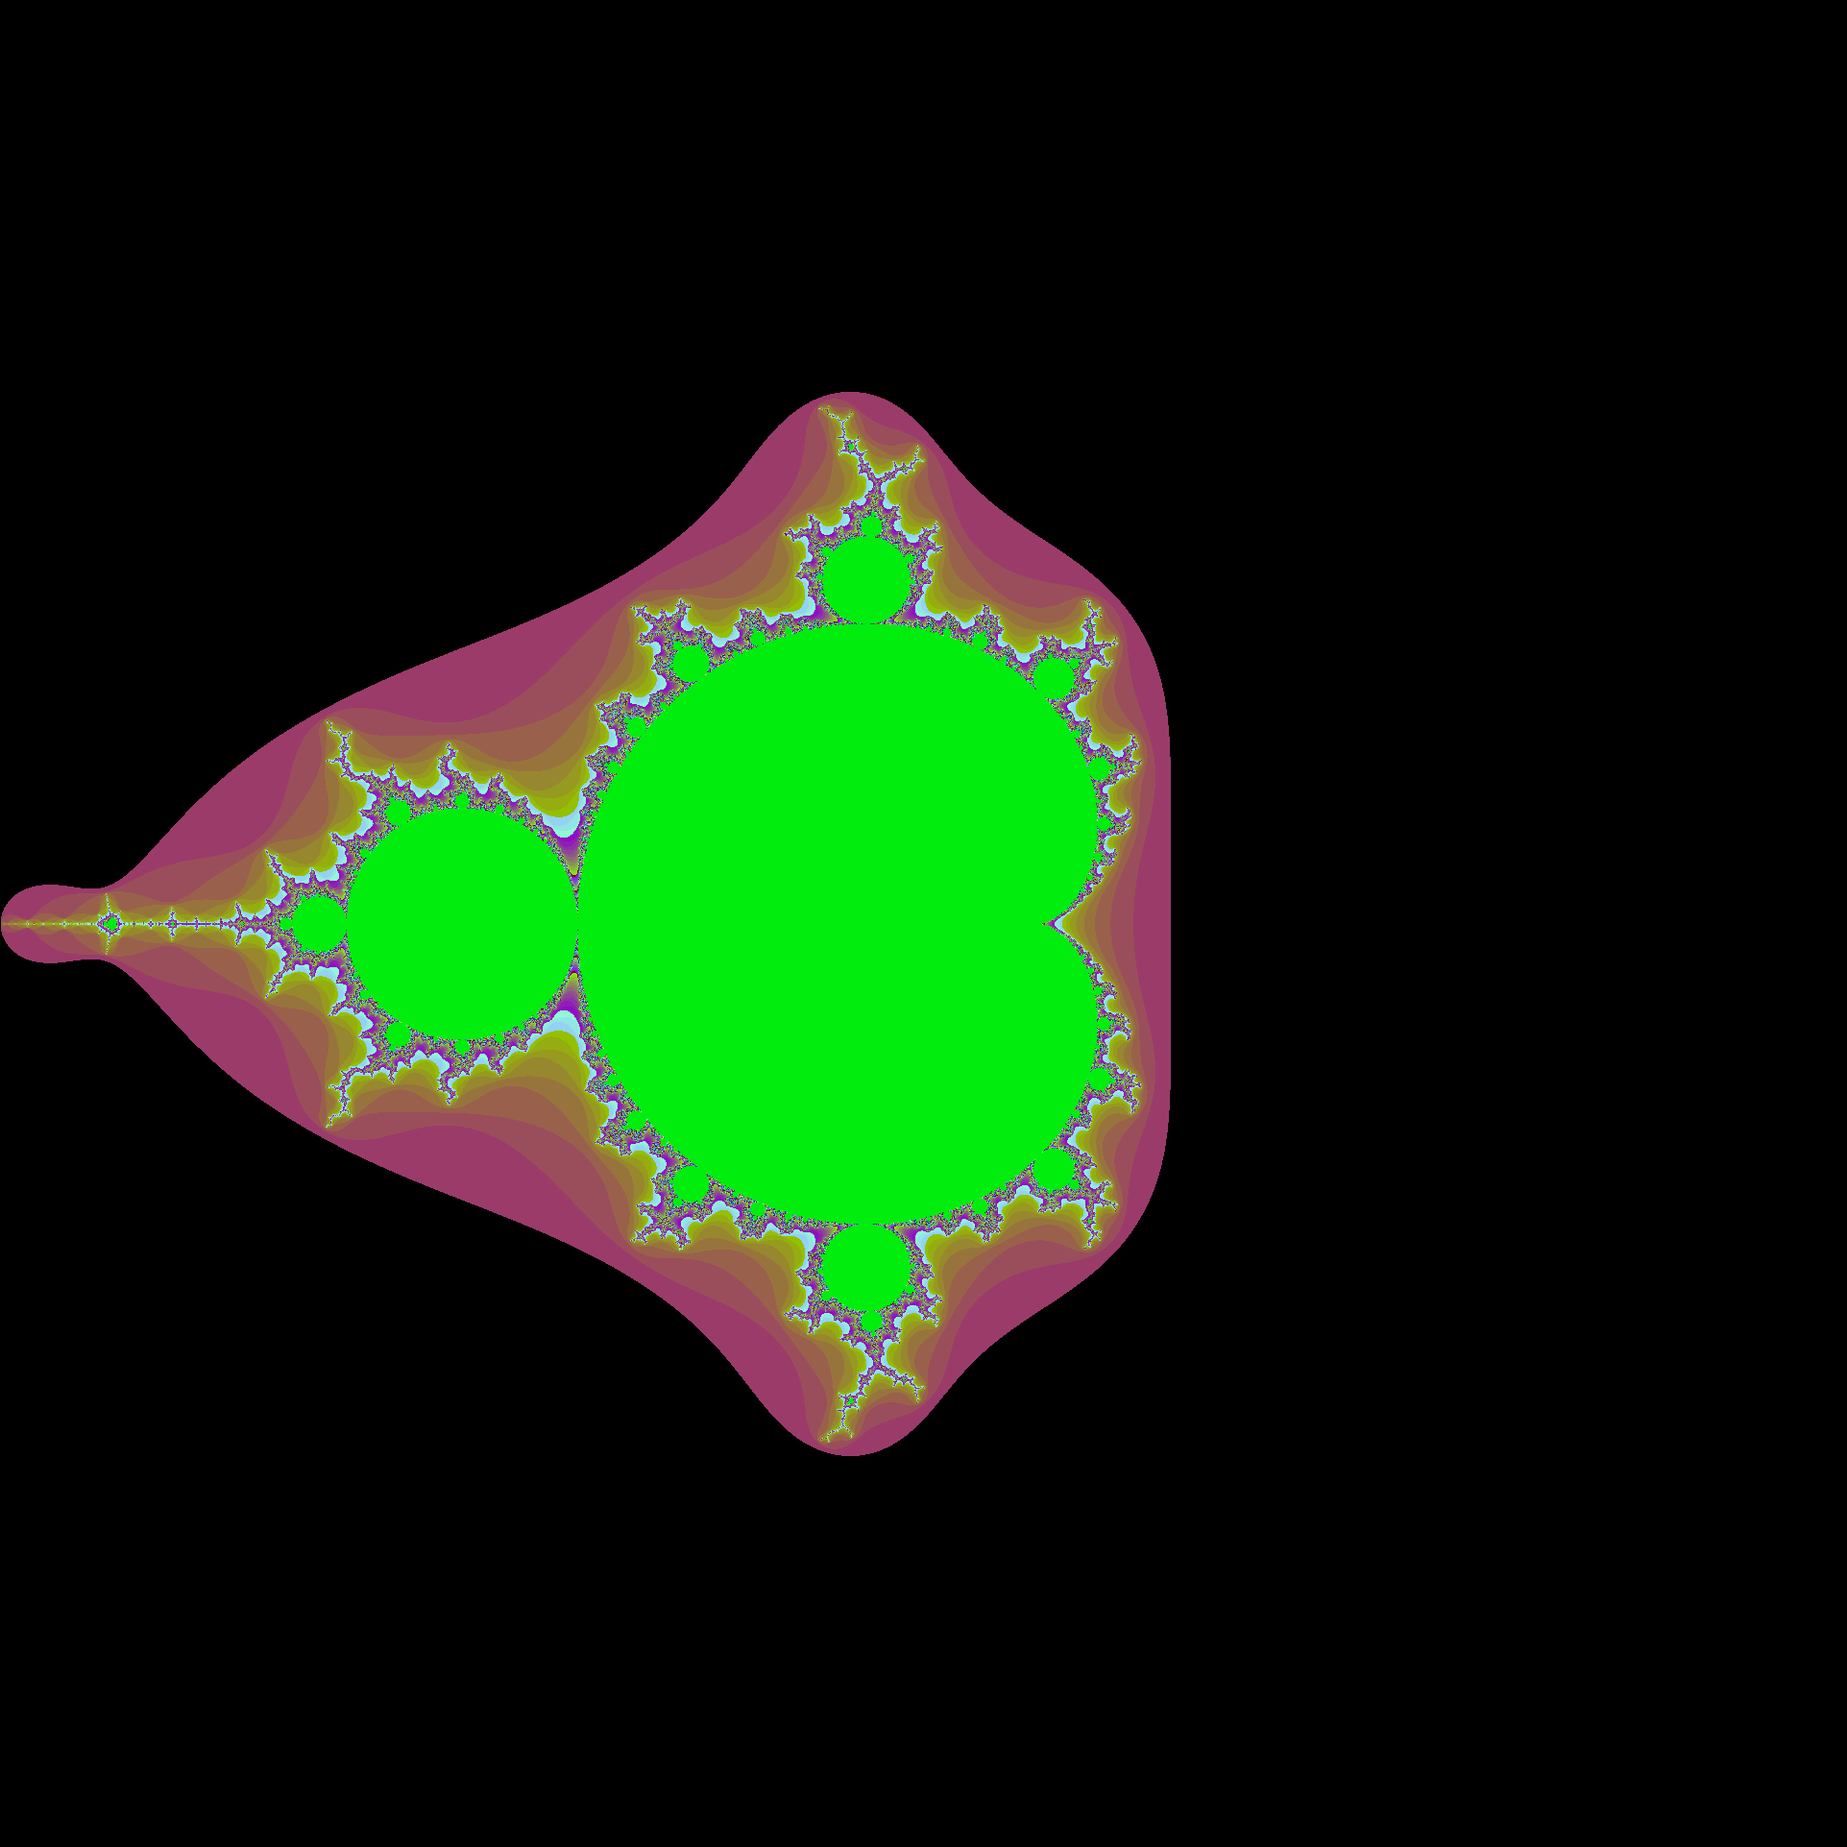
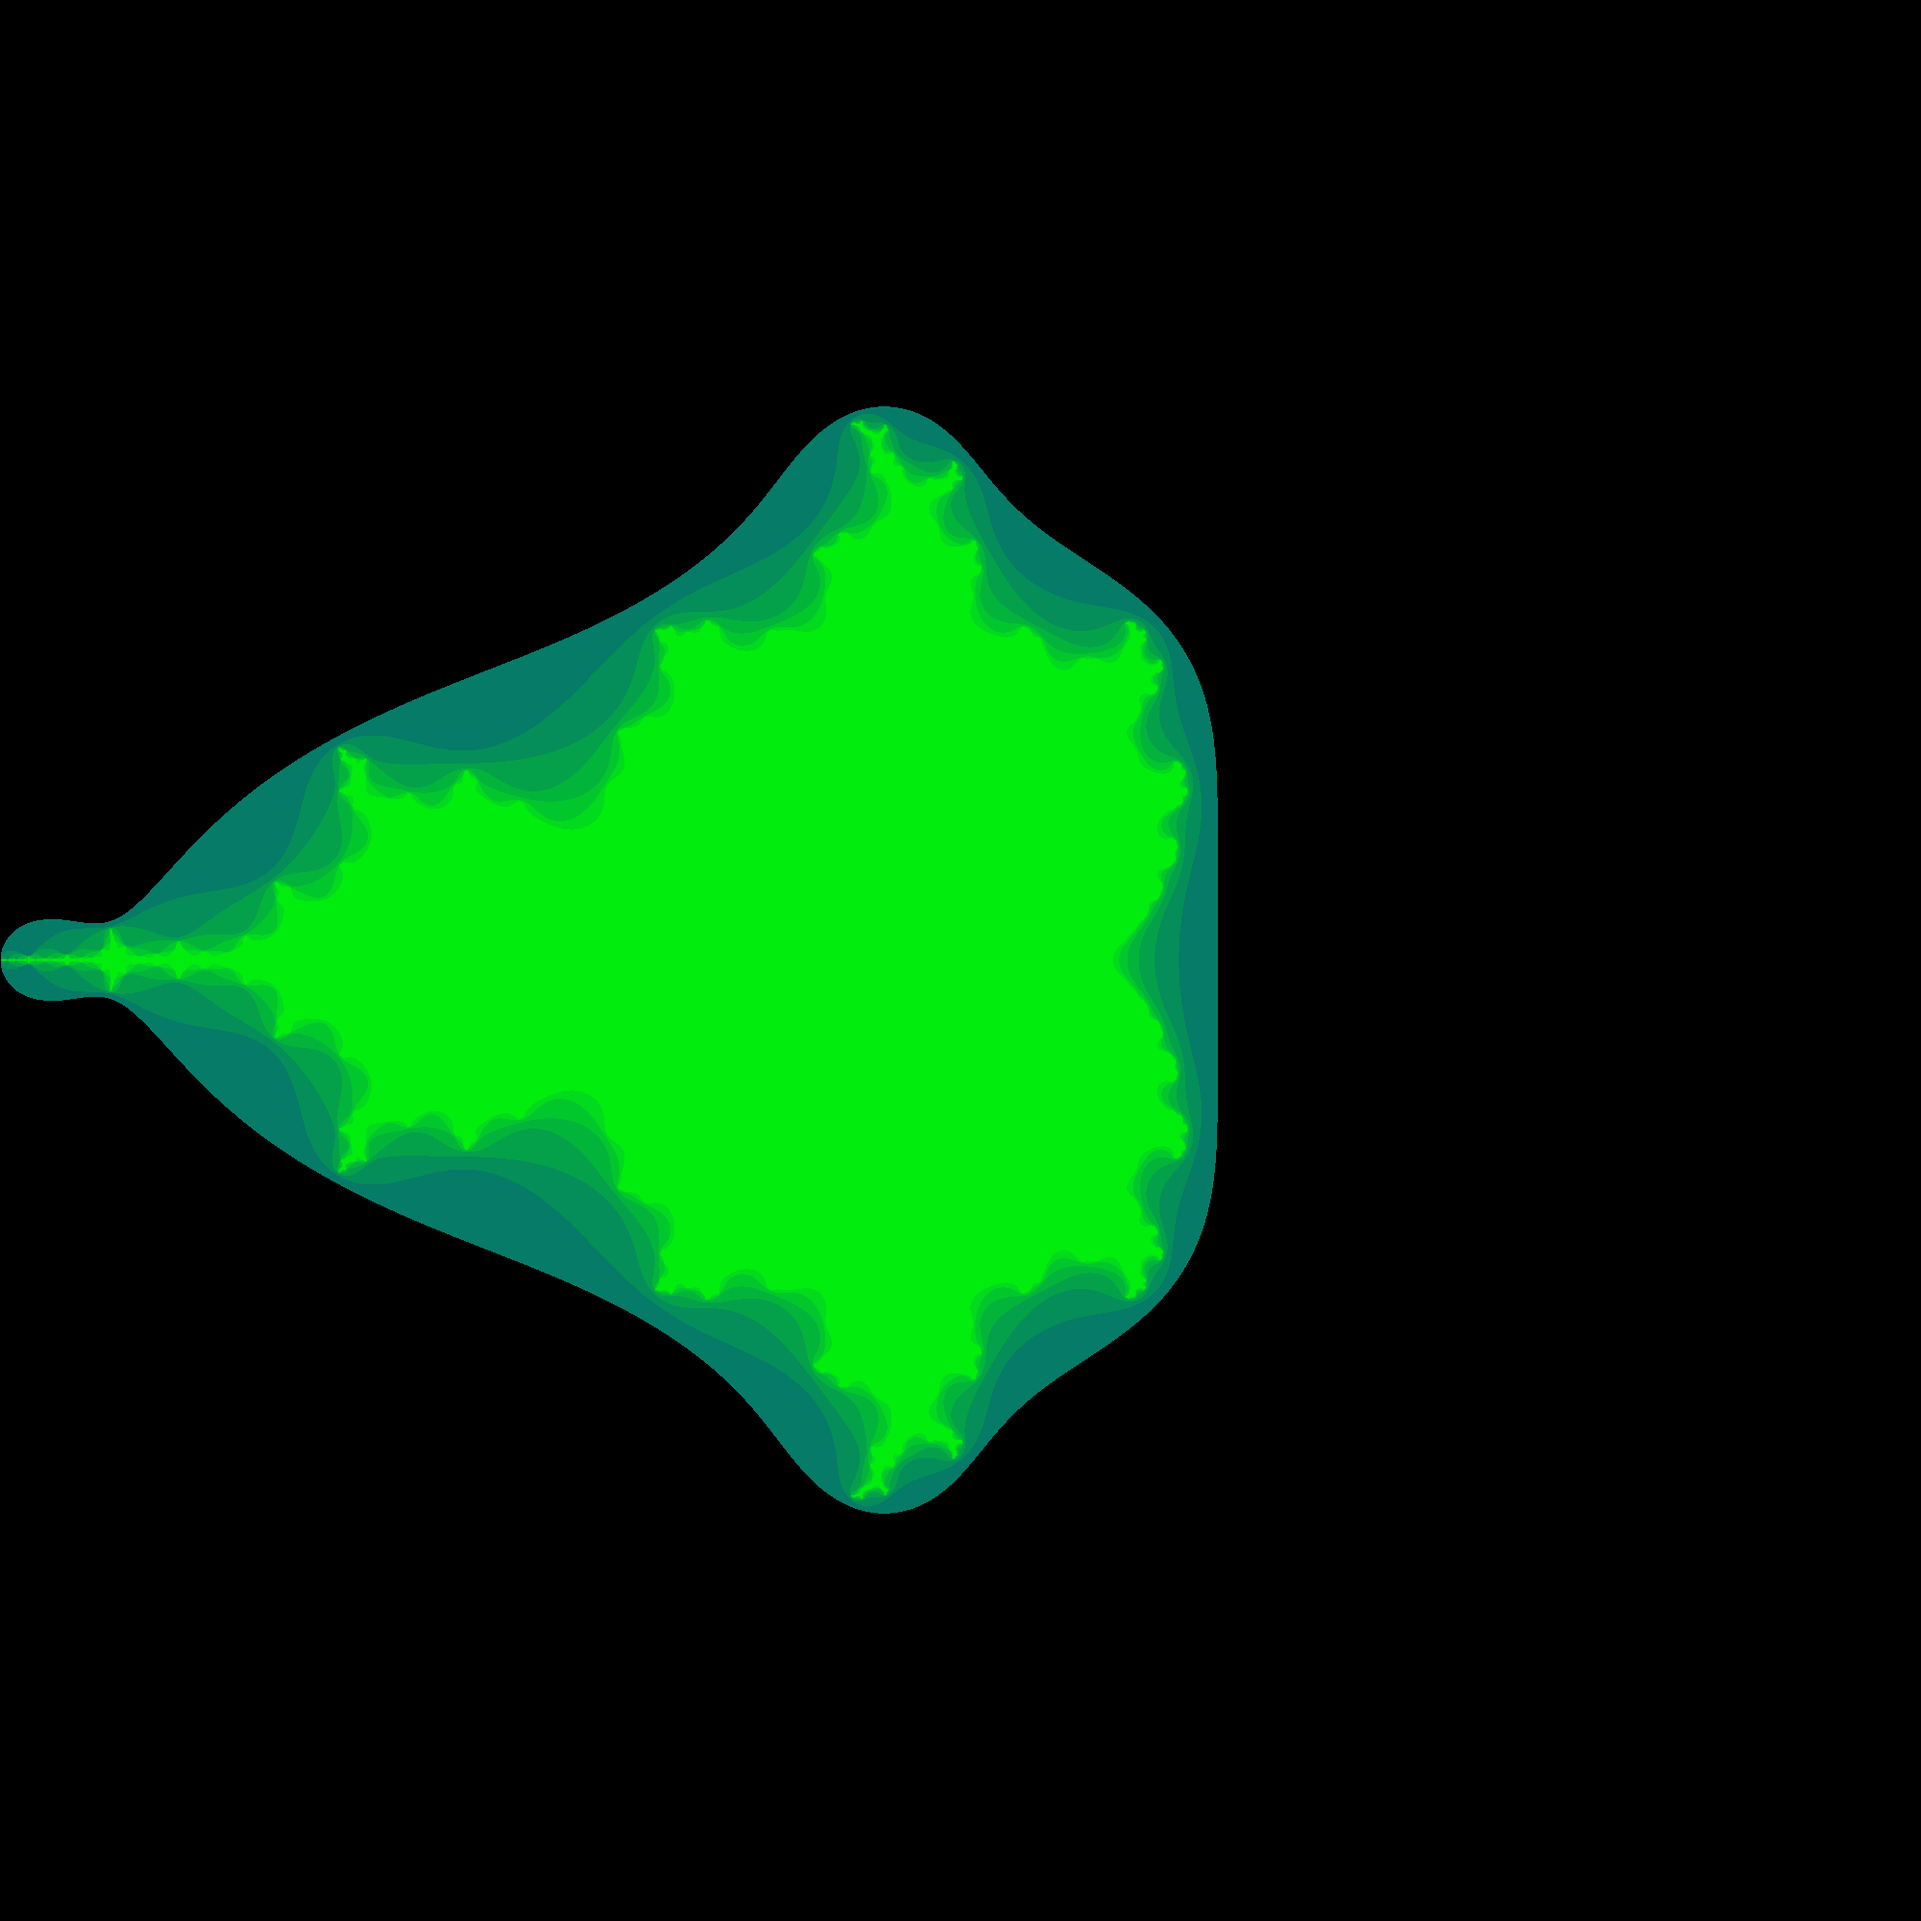
display the set!

Changed region(s): [[0.0, 0.1872, 0.6552, 0.8112]]

diff --git a/src/mandelbrotset/MainPanel.java b/src/mandelbrotset/MainPanel.java
@@ -6,6 +6,7 @@
 package mandelbrotset;
 
 import java.awt.Color;
+import java.awt.Font;
 import java.awt.Graphics;
 import java.awt.Graphics2D;
 import java.awt.image.BufferedImage;
@@ -27,6 +28,8 @@ public class MainPanel extends javax.swing.JPanel {
      * @param m
      */
     public MainPanel(MainFrameUI m) {
+        
+        setImage = null;
 
         mainFrameUI = m;
 
@@ -54,9 +57,32 @@ public class MainPanel extends javax.swing.JPanel {
         //stop using Graphics. Get G2D
 
         Graphics2D g2d = (Graphics2D) g;
-        
+
         g2d.setColor(Color.red);
-        g2d.drawRect(100, 100, 100, 100);
+        
+        g2d.setFont(new Font("Times New Roman", Font.BOLD, 20));
+        g2d.drawString("IF you are seeing this message please wait for the image to generate...", 
+                50, 50);
+
+        //draw the image
+        g2d.drawImage(setImage,
+                0,
+                0,
+                this
+        );
+        
+        System.out.println("Done");
+    }
+
+    /**
+     * Update the image of the Mandelbrot Set
+     *
+     * @param image
+     */
+    public void setMandelSetImage(BufferedImage image) {
+        setImage = image;
+        System.out.println("Update");
+        repaint();
     }
 
 }

diff --git a/src/mandelbrotset/MainFrameUI.java b/src/mandelbrotset/MainFrameUI.java
@@ -5,6 +5,8 @@
  */
 package mandelbrotset;
 
+import java.awt.image.BufferedImage;
+
 /**
  *
  * @author Tacitor
@@ -25,7 +27,7 @@ public class MainFrameUI extends javax.swing.JFrame {
         this.setSize(1280, 720);
         this.setUndecorated(false); //make sure it has min, max, and close buttons
         this.setDefaultCloseOperation(EXIT_ON_CLOSE);
-        
+
         //centre it on screen
         this.setLocationRelativeTo(null);
 
@@ -35,6 +37,15 @@ public class MainFrameUI extends javax.swing.JFrame {
         
         this.setVisible(true);
         
+    }
+
+    /**
+     * Pass over the image of the Mandelbrot Set to the JPanel
+     *
+     * @param image
+     */
+    public void setMandelSetImage(BufferedImage image) {
+        mainPanel.setMandelSetImage(image);
     }
     
 }

diff --git a/src/mandelbrotset/MandelbrotSet.java b/src/mandelbrotset/MandelbrotSet.java
@@ -25,8 +25,8 @@ class MandelbrotSet {
         theFrame = new MainFrameUI();
 
         //****************
-        double step = 0.00208;
-        int repititions = 1000;
+        double step = 0.002;
+        int repititions = 10;
 
         double xoff;
         double yoff;
@@ -60,6 +60,9 @@ class MandelbrotSet {
             }
             //System.out.println("");
         }
+        
+        //Now that the image has been made pass it over to the panel
+        theFrame.setMandelSetImage(image);
 
         File file = new File("mandelbrot3.png");
 
